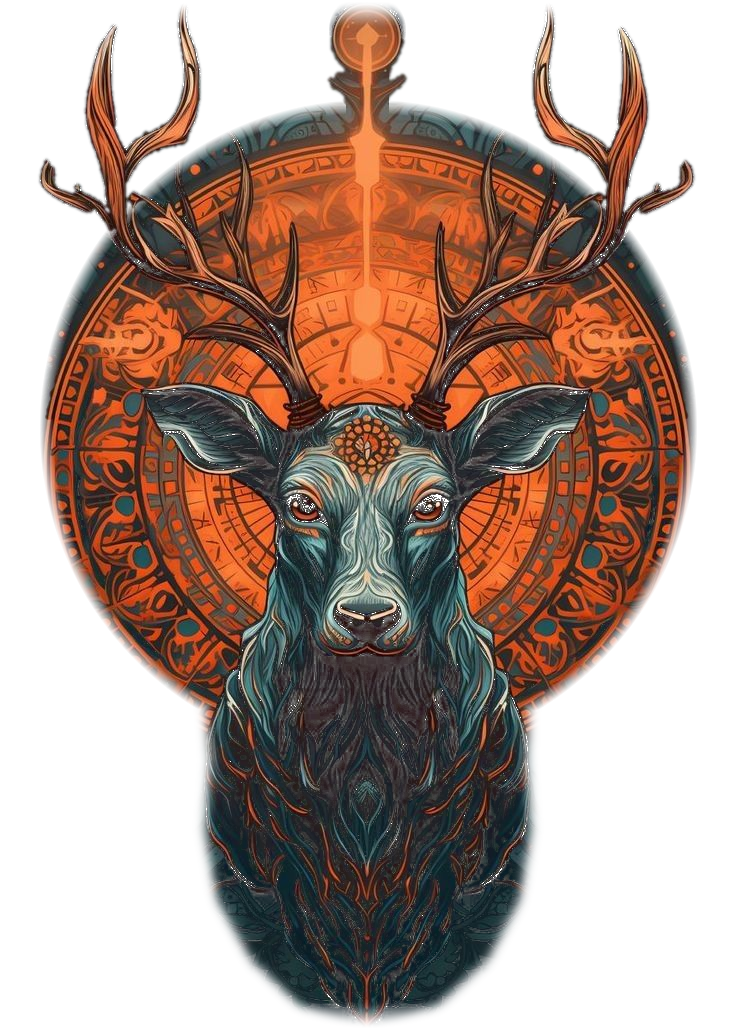
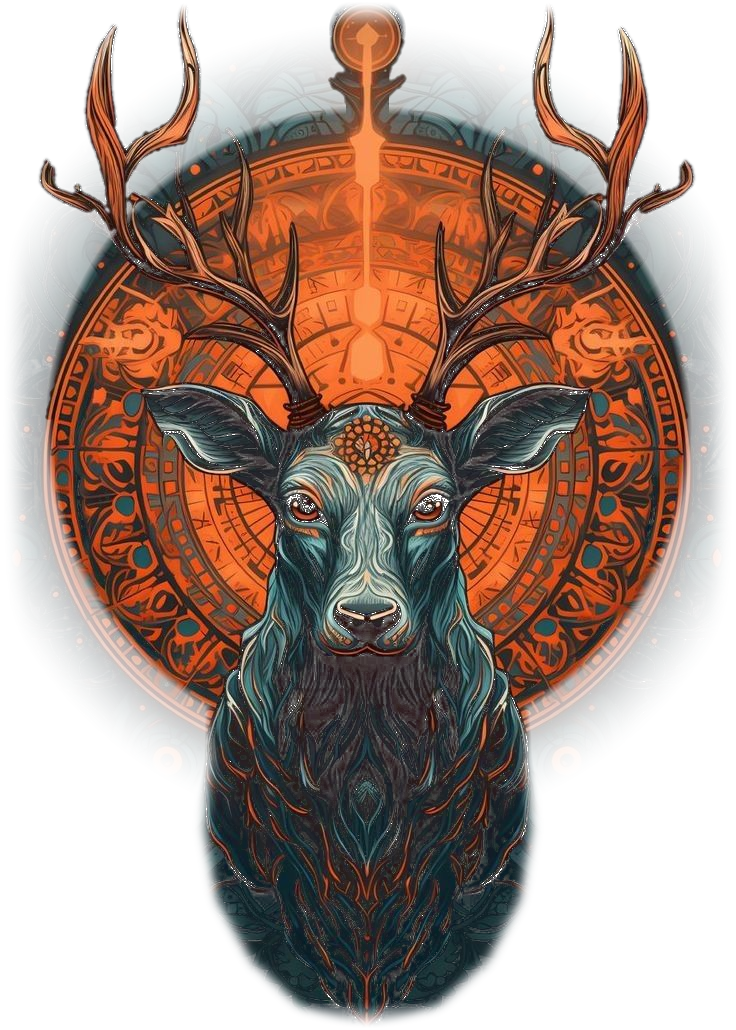
Mandala deer: keep a faint teal halo around the disc
Claude-Session: https://claude.ai/code/session_01UQwoi29Lt5uc6gfwN81ruM

Changed region(s): [[0.5312, 0.0621, 1.0, 0.7456], [0.0, 0.0621, 0.4688, 0.7456]]

diff --git a/tisort_mockup_geyik_mandala.py b/tisort_mockup_geyik_mandala.py
@@ -29,7 +29,10 @@ keep = [i for i in range(1, n+1) if sizes[i-1] > 400 and i in touch]
 ant = np.isin(lab, keep) & (yy < 420)
 ant = nd.binary_opening(ant, iterations=1)
 ant = nd.gaussian_filter(nd.binary_dilation(ant, iterations=1).astype(np.float32), 1.2)
-alpha = np.clip(np.maximum.reduce([disc, medal, beam, body, ant]), 0, 1)
+# faint teal halo: let the surrounding pattern fade out softly around the disc
+rd = np.hypot(xx-368, yy-428)
+halo = 0.5*np.clip(1 - (rd-310)/100, 0, 1)**1.6
+alpha = np.clip(np.maximum.reduce([disc, medal, beam, body, ant, halo]), 0, 1)
 # very dark gaps become see-through so the black shirt shows
 alpha *= np.clip((a.max(2) - 12)/25, 0, 1)**0.7*0.6 + 0.4*(a.max(2) > 12)
 e = np.clip(np.minimum.reduce([xx, w-1-xx, yy, h-1-yy])/(0.04*w), 0, 1)
